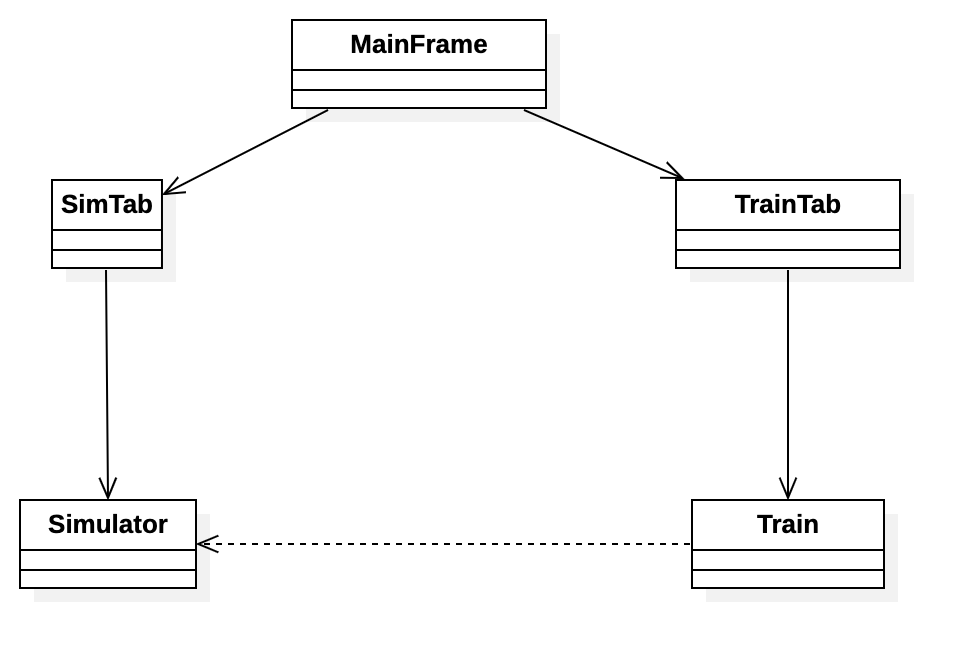
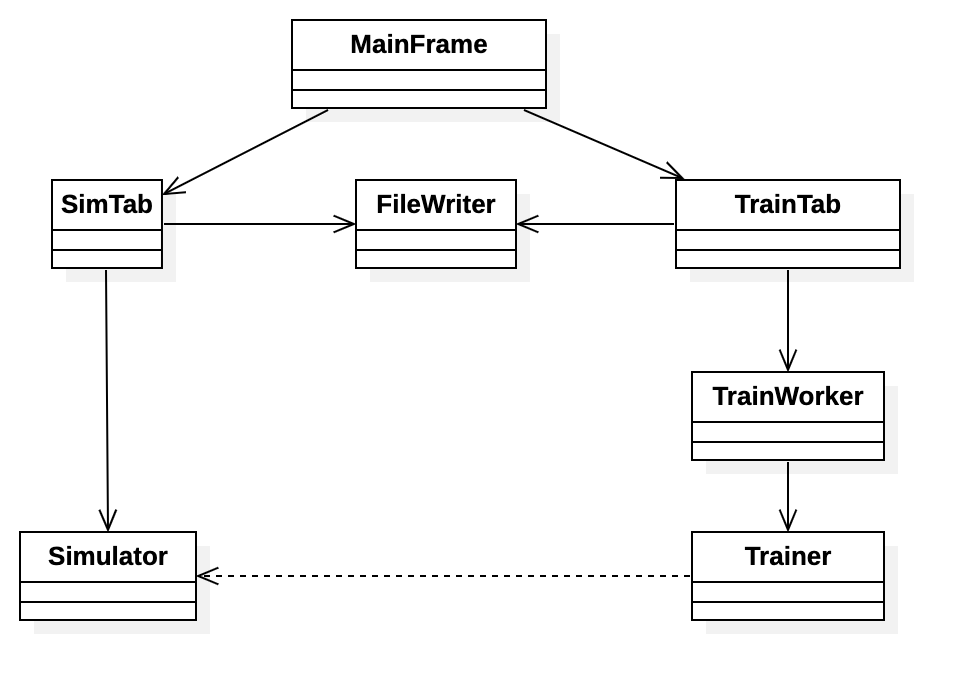
updates to readme

diff --git a/README.md b/README.md
@@ -36,7 +36,7 @@ De handleiding van de simtool kun je [hier](https://github.com/Jerscovad/Simulat
 _____
 
 ## De Grafische User Interface (GUI)
-De GUI is gemaakt met behulp van de [wxPython](https://wxpython.org/), [matplotlib](https://matplotlib.org/) library. Dit heeft als voordeel dat de GUI op meerdere besturingssystemen ondersteuning heeft.
+De GUI is gemaakt met behulp van de [wxPython](https://wxpython.org/) en [matplotlib](https://matplotlib.org/) libraries. Dit heeft als voordeel dat de GUI op meerdere besturingssystemen ondersteuning heeft.
 
 De huidige versie heeft een eenvoudig globaal ontwerp zoals hieronder te zien is.
 ![GUI layout](https://github.com/Jerscovad/SimulatieTool/blob/master/images/design/GUI_classes.png)
@@ -52,10 +52,10 @@ De Simulatie functie is de basis waarop de tool is gebouwd. Het is ondergebracht
 
 Voor het simuleren met data afkomsten van Schiphol over het jaar 2016 wordt het Simulatie object als volgt geinitialiseerd:
 ```python
-Sim_schiphol = Simulator(Location('schiphol'),'2016', Windturbine(5))
+Sim_schiphol = Simulator(Location('schiphol'),'2016', Windturbine('3MW'))
 ```
 
-In de [__init__](https://github.com/Jerscovad/SimulatieTool/blob/master/src/simulator.py#L22) functie is te zien dat er meer parameters kunnen worden meegegeven maar deze zijn als [default parameter](https://docs.python.org/2.0/ref/function.html) gedefinieerd dus hoeft het in dit geval niet meegegeven te worden.
+In de [__init__](https://github.com/Jerscovad/SimulatieTool/blob/master/src/simulator.py#L22) functie is te zien dat er meer parameters kunnen worden meegegeven maar deze zijn als [default parameter](https://docs.python.org/2.0/ref/function.html) gedefinieerd. Dit betekend dat ze indien ze onveranderd blijven, niet ingevuld hoeven te worden. Bij de initialisatie wordt ook meteen de windturbine meegegeven. Dit is nodig om de juiste curve te gebruiken voor de windturbine. Meer over de windturbines en curves [hier]().
 
 ### De attributen
 De atributen zijn variabelen die nodig zijn ter ondersteuning van de functies. Deze worden ingevoerd door de gebruiker of worden uit een data bestand uitgelezen.
@@ -68,7 +68,7 @@ Korte omschrijving van ieder atribuut:
 - **Windturbine:** Windturbine object die informatie over de windturbine bevat. Zie [Windturbine klasse](https://github.com/Jerscovad/SimulatieTool/blob/master/src/generators.py)
 - **import_data:** bevat alle geimporteerde weerdata nodig voor de berekeningen. De data wordt bij initialisatie uitgelezen.
 - **ghi:** Globale horizontale straling. Gebruikt bij de zonne vermogen/energie berekening. Komt uit de import data.
-- **dni:** Direkte neerwaardse straling. Gebruikt bij de zonne vermoge/energie berekening. Komt uit de import data.
+- **dni:** Direkte neerwaardse straling. Gebruikt bij de zonne vermogen/energie berekening. Komt uit de import data.
 - **dates:** Datum informatie die bij de weerdata hoort. Komt uit de import data.
 - **doy:** Day of year. Gebruikt bij de zonne vermoge/energie berekening. Wordt gehaald uit de dates variabele.
 - **time:** Uur van de dag. Gebruikt bij de zonne vermoge/energie berekening. Komt uit de import data.
@@ -95,9 +95,8 @@ Naast de bovengenoemde ondersteunende attributen heeft deze functie ook nodig:
 * sp_eff(efficiency): De efficiëntie van de zonnepanelen in procenten.
 * gref: ...Wordt in de berekening wel gebruikt maar is altijd 0...
 
-De functie berkend het vermogen en de energie voor de zonnepanelen en 'returned' deze in twee aparte [numpy arrays](https://numpy.org/doc/stable/reference/generated/numpy.array.html?highlight=array#numpy.array). De grootte van deze arrays is afhankelijk van de weerdata die als input wordt meegegeven.
+De functie berkend het vermogen en de energie voor de zonnepanelen en 'returned' deze in twee aparte [numpy arrays](https://numpy.org/doc/stable/reference/generated/numpy.array.html?highlight=array#numpy.array). De grootte van deze arrays is afhankelijk van de weerdata die als input wordt meegegeven. Meer over de weerdata [hier]().
 
-Momenteel kan de functie alleen worden uitgevoerd met vier opstellingen. Bij minder dan vier kan 0 worden meegegeven als input van de resterende opstellingen.
 
 Stel je wilt dus het vermogen(power) en energie(energy) van de volgende opstellingen:
  * 100m met een hoek van 50 graden naar het zuiden gericht.
@@ -110,7 +109,8 @@ Onderstaande code zet dan de som van de vier opstellingen in de `power` en `ener
 power,energy = Sim_schiphol.calc_solar(Az=[0, -90, 90, 45],Inc=[50, 45, 30, 25],
                                      sp_area=[100, 200, 300, 400],sp_eff=16,gref=0)
 ```
-Aangezien de `sp_eff` en `gref` altijd 16 en 0 respectievelijk zijn, zijn ze als [default parameter](https://docs.python.org/2.0/ref/function.html) gedefiniëerd en kan bovenstaande ook als volgt worden geschreven:
+
+Als de `sp_eff` en `gref` niet worden aangepast kan het bovenstaande, aangezien ze [default parameter](https://docs.python.org/2.0/ref/function.html) zijn, als volgt worden geschreven:
 
 ```python
 power,energy = Sim_schiphol.calc_solar(Az=[0, -90, 90, 45],Inc=[50, 45, 30, 25],sp_area=[100, 200, 300, 400])
@@ -136,36 +136,70 @@ Combinatie van de twee bovenstaande zou worden:
 total_power,total_energy = Sim_schiphol.calc_total([100, 50, 0, 200, 45, -90, 300, 30, 90, 400, 25, 45],[5, 100], 16)
 ```
 
-De grootte van de numpy arrays (power en energy) die uit de functies afkomstig zijn, is afhankelijk van de grootte van de input data. De huidige input data is geformatteerd op een jaar uitgezet in uren dus iedere output zal 8760 data punten bevatten.
-
-
 _____
 
 ## De Train functie
 De train functie maakt gebruik van de Simulatie functie in combinatie met een gentisch algoritme(GA) om de optimale configuratie te vinden. Ter ondersteuning hiervan wordt ook een kosten calculator gebruikt.
+Dit is allemaal ondergebracht in een Trainer klasse.
 
 Onderstaande diagram geeft deels aan hoe de Train functie te werk gaat.
 ![training sequence](https://github.com/Jerscovad/SimulatieTool/blob/master/images/design/Train_sequence.png)
 
-Omdat de Train functie niet zijn eigen klasse heeft, hoeft het niet geinitialiseerd te worden maar wordt het gewoon als functie aangeroepen:
+
 ```python
-best = train(n_generations=100, group_size=100, surface_min=0, surface_max=10000000, 
-             angle_min=0, angle_max=90, orientation_min=-180, orientation_max=180, 
-             mutationPercentage=50, N_WIND_MIN=0, N_WIND_MAX=10, turbine_height=100,
-             cost_calculator=None, simulator=None, windturbineType=4, sp_efficiency=16)
+trainer = Trainer(parent, generations, group_size, n_configs, surface_min, 
+                 surface_max, angle_min, angle_max, orientation_min, 
+                 orientation_max, sp_eff, mutation_percentage, turbines_min, turbines_max, 
+                 turbine_height, turbine_type, solar_price, storage_price, demand, 
+                 shortage_price, turbine_price, surplus_price, train_by_price,
+                 location, year, latitude, longitude, terrain_factor)
 ```
 Korte omschrijving van de parameters:
-- **n_generations:** Hoeveelheid generaties van het GA. Een generatie bevat meerdere groepen.
+- **generations:** Hoeveelheid generaties van het GA. Een generatie bevat meerdere groepen.
 - **group_size:** Grootte van iedere generatie van het GA. Een groep bevat meedere configuraties.
+- **n_configs:** Hoeveel zonnepaneel configuraties er moeten zijn. Dit kan 1 tot 4 zijn.
 - **surface_min/surface_max:** Minimale/maximale oppervlakte die het GA mag gebruiken.
-- **angle_min/angle_min:** Minimale/maximale hoek ([Inc](https://github.com/Jerscovad/SimulatieTool#calc_solar-functie)) die het GA mag gebruiken
-- **orientation_min/orientation_max:** Minimale/maximale ([Az](https://github.com/Jerscovad/SimulatieTool#calc_solar-functie)) orientatie die het GA mag gebruiken.
+- **angle_min/angle_min:** Minimale/maximale hoek ([Inc](https://github.com/Jerscovad/SimulatieTool#calc_solar-functie)) dat het GA mag gebruiken
+- **orientation_min/orientation_max:** Minimale/maximale ([Az](https://github.com/Jerscovad/SimulatieTool#calc_solar-functie)) orientatie dat het GA mag gebruiken.
+- **sp_eff:** Efficientie van de zonnepanelen.
 - **mutationPercentage:** Percentage van verschil tussen iedere configuratie in een generatie.
-- **N_WIND_MIN/N_WIND_MAX:** Minimale/maximale aantal windturbines die het GA mag gebruiken.
+- **turbines_min/turbines_max:** Minimale/maximale aantal windturbines dat het GA mag gebruiken.
 - **turbine_height:** Hoogte van de rotor as van de windturbine.
-- **cost_calculator:** Costcalculator object die de kosten berekend tijdens de training. Bevat de stukprijzen van alle componenten.
-- **simulator:** Simulator object die de energie berekend voor iedere configuratie.
-- **windturbineType:** Type van de windturbine die wordt gebruikt tijden de training.
-- **sp_efficiency:** Efficientie van de zonnepanelen.
+- **turbine_type:** Het type van de windturbine.
+- **solar_price:** Prijs van de zonnepanelen in €/m<sup>2</sup>.
+- **storage_price:** Prijs van de opslag in €/kWh.
+- **demand:** De constante vraag van vermogen in kW.
+- **shortage_price:** Prijs van onderproductie €/kWh.
+- **turbine_price:** Prijs van de windturbine in €/kW.
+- **surplus_price:** Prijs van overproductie in €/kWh.
+- **train_by_price:** Moet het algoritme trainen volgens de kosten of volgens vermogen en energie.
+- **location:** Locatie waar de weerdata van afkomstig moet zijn.
+- **year:** Jaar waarin de weerdata is opgenomen.
+- **latitude:** Coördinaat van de locatie waar het om gaat. Wordt uit het Locatie object uitgelezen tenzij een waarde wordt ingevoerd.
+- **longitude:** Coördinaat van de locatie waar het om gaat. Wordt uit het Locatie object uitgelezen tenzij een waarde wordt ingevoerd.
+- **terrain_factor:** Terreingesteldheidsfactor die wordt gebruikt bij wind vermogen/energie berekening. Wordt uit het locatie object uitgelezen tenzij een waarde wordt ingevoerd.
+
+Met het Trainer object kan nu worden getrained door de `train` functie aan te roepen zoals in [deze](https://github.com/Jerscovad/SimulatieTool/blob/master/images/design/Train_sequence.png) afbeelding te zien is. Wanneer de training klaar is wordt de beste cofiguratie gereturned.
+
+_____
+
+## De Weerdata
+
+De weerdata is afkomstig uit KNMI data en is aangepast om gebruikt te kunnen worden in de simulatie functie. Daarnaast zijn uit de KNMI data ook nieuwe gegevens berekend die nodig zijn in de simulatie functie.
+Voor iedere locatie is per jaar de data verdeeld in verschillende `csv` bestanden.
+In ieder bestand zitten 8760 rijen met daarin:
+- Datum
+- Uur van de dag
+- Windsnelheid
+- Temperatuur (wordt momenteel niet gebruikt)
+- Q oftewel de GHI (Globale Horizontale Straling)
+- Luchtdruk (wordt momenteel niet gebruikt)
+- DNI (Direkte Neerwaartse Straling)
+
+Deze gegevens worden uit het bestand gelezen wanneer er een Simulator object wordt aangemaakt.
+
+_____
+
+## Windturbines
 
 _____
